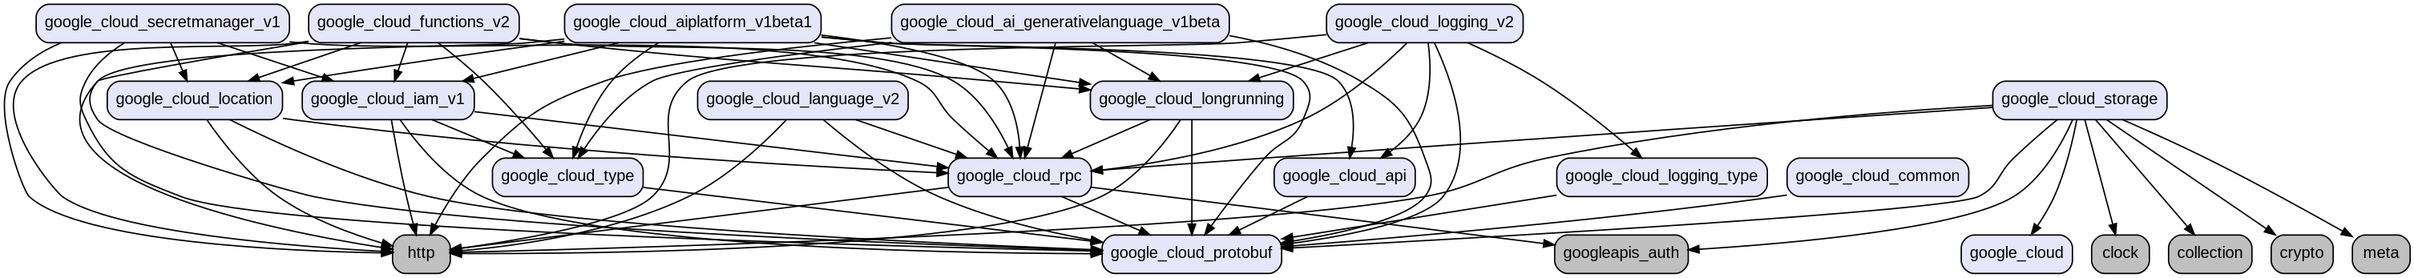
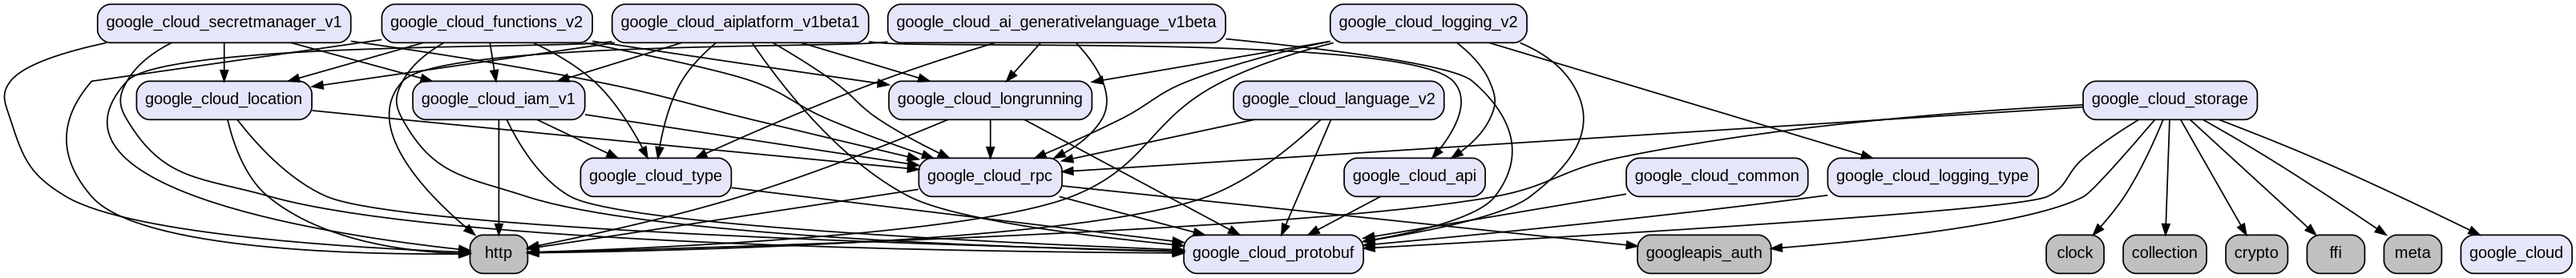
feat(gcs): Use getenv to get STORAGE_EMULATOR_HOST (#156)

Changed region(s): [[0.0, 0.0, 1.0, 1.0], [0.6242, 0.2882, 0.6554, 0.3458]]

diff --git a/packages/google_cloud_storage/lib/src/client.dart b/packages/google_cloud_storage/lib/src/client.dart
@@ -13,7 +13,6 @@
 // limitations under the License.
 
 import 'dart:async';
-import 'dart:io';
 
 import 'package:google_cloud/google_cloud.dart' show computeProjectId;
 import 'package:google_cloud_protobuf/protobuf.dart';
@@ -31,6 +30,7 @@ import 'file_upload.dart';
 import 'object_metadata_json.dart';
 import 'object_metadata_patch_builder.dart'
     show ObjectMetadataPatchBuilderJsonEncodable;
+import 'storage_emulator_host_vm.dart';
 
 class _JsonEncodableWrapper implements JsonEncodable {
   final Object json;
@@ -51,9 +51,6 @@ final class Storage {
   final Uri _baseUrl;
 
   static final _httpPattern = RegExp(r'^https?://');
-
-  static String? _getStorageEmulatorHost() =>
-      Platform.environment['STORAGE_EMULATOR_HOST'];
 
   static FutureOr<http.Client> _calculateClient(
     http.Client? client,
@@ -87,13 +84,14 @@ final class Storage {
   static Uri _calculateBaseUrl(
     String? apiEndpoint,
     bool useAuthWithCustomEndpoint,
+    String? emulatorHost,
   ) {
     if (apiEndpoint != null) {
       if (useAuthWithCustomEndpoint) return Uri.https(apiEndpoint);
       return Uri.http(apiEndpoint);
     }
 
-    if (_getStorageEmulatorHost() case String host) {
+    if (emulatorHost case String host) {
       if (_httpPattern.hasMatch(host)) {
         return Uri.parse(host);
       }
@@ -102,6 +100,8 @@ final class Storage {
 
     return Uri.https('storage.googleapis.com');
   }
+
+  Storage._(this._projectId, this._baseUrl, this._httpClient);
 
   /// Constructs a client used to communicate with [Google Cloud Storage][].
   ///
@@ -128,14 +128,21 @@ final class Storage {
   /// [Google Cloud Storage]: https://cloud.google.com/storage
   /// [Cloud Storage for Firebase Emulator]: https://firebase.google.com/docs/emulator-suite/connect_storage
   /// [default application credentials]: https://docs.cloud.google.com/docs/authentication/application-default-credentials
-  Storage({
+  factory Storage({
     String? projectId,
     String? apiEndpoint,
     bool useAuthWithCustomEndpoint = true,
     http.Client? client,
-  }) : _projectId = _calculateProjectId(projectId, _getStorageEmulatorHost()),
-       _httpClient = _calculateClient(client, _getStorageEmulatorHost()),
-       _baseUrl = _calculateBaseUrl(apiEndpoint, useAuthWithCustomEndpoint);
+  }) {
+    // Ensure that the same value of `storageEmulatorHost` is used everywhere in
+    // the constructor.
+    final emulatorHost = storageEmulatorHost;
+    return Storage._(
+      _calculateProjectId(projectId, emulatorHost),
+      _calculateBaseUrl(apiEndpoint, useAuthWithCustomEndpoint, emulatorHost),
+      _calculateClient(client, emulatorHost),
+    );
+  }
 
   Uri _requestUrl(
     Iterable<String>? pathSegments,

diff --git a/packages/google_cloud_storage/lib/src/storage_emulator_host_vm.dart b/packages/google_cloud_storage/lib/src/storage_emulator_host_vm.dart
@@ -1,0 +1,75 @@
+// Copyright 2026 Google LLC
+//
+// Licensed under the Apache License, Version 2.0 (the "License");
+// you may not use this file except in compliance with the License.
+// You may obtain a copy of the License at
+//
+//     https://www.apache.org/licenses/LICENSE-2.0
+//
+// Unless required by applicable law or agreed to in writing, software
+// distributed under the License is distributed on an "AS IS" BASIS,
+// WITHOUT WARRANTIES OR CONDITIONS OF ANY KIND, either express or implied.
+// See the License for the specific language governing permissions and
+// limitations under the License.
+
+import 'dart:ffi';
+import 'dart:io';
+
+import 'package:ffi/ffi.dart';
+
+final _getenv = DynamicLibrary.process()
+    .lookupFunction<
+      Pointer<Utf8> Function(Pointer<Utf8>),
+      Pointer<Utf8> Function(Pointer<Utf8>)
+    >('getenv');
+
+final _getEnvironmentVariableW = DynamicLibrary.open('kernel32.dll')
+    .lookupFunction<
+      Int32 Function(Pointer<Utf16>, Pointer<Utf16>, Int32),
+      int Function(Pointer<Utf16>, Pointer<Utf16>, int)
+    >('GetEnvironmentVariableW');
+
+String? _posixEnvironmentVariable(String name) => using((arena) {
+  final namePtr = name.toNativeUtf8(allocator: arena);
+  final valuePtr = _getenv(namePtr);
+  if (valuePtr == nullptr) {
+    return null;
+  }
+  return valuePtr.toDartString();
+});
+
+String? _windowsEnvironmentVariable(String name) => using((arena) {
+  final namePtr = name.toNativeUtf16(allocator: arena);
+  // First call to determine size
+  final size = _getEnvironmentVariableW(namePtr, nullptr, 0);
+  if (size == 0) {
+    return null; // Error or empty.
+  }
+
+  final buffer = arena<Uint16>(size).cast<Utf16>();
+  final finalSize = _getEnvironmentVariableW(namePtr, buffer, size);
+  if (finalSize == 0 || finalSize > size) {
+    return null; // Error or race condition where variable grew?
+  }
+  return buffer.toDartString();
+});
+
+String? _environmentVariable(String name) {
+  if (Platform.isWindows) {
+    return _windowsEnvironmentVariable(name);
+  } else {
+    return _posixEnvironmentVariable(name);
+  }
+}
+
+/// Returns the host and port of the Google Cloud Storage emulator, if set.
+///
+/// Reads the `STORAGE_EMULATOR_HOST` environment variable directly using native
+/// code. [Platform.environment] is not used because it is cached and immutable
+/// and the emulator configuration might not be available until the application
+/// is launched (e.g. when running with the Firebase emulator).
+String? get storageEmulatorHost {
+  final host = _environmentVariable('STORAGE_EMULATOR_HOST');
+  if (host?.isEmpty ?? true) return null;
+  return host;
+}
